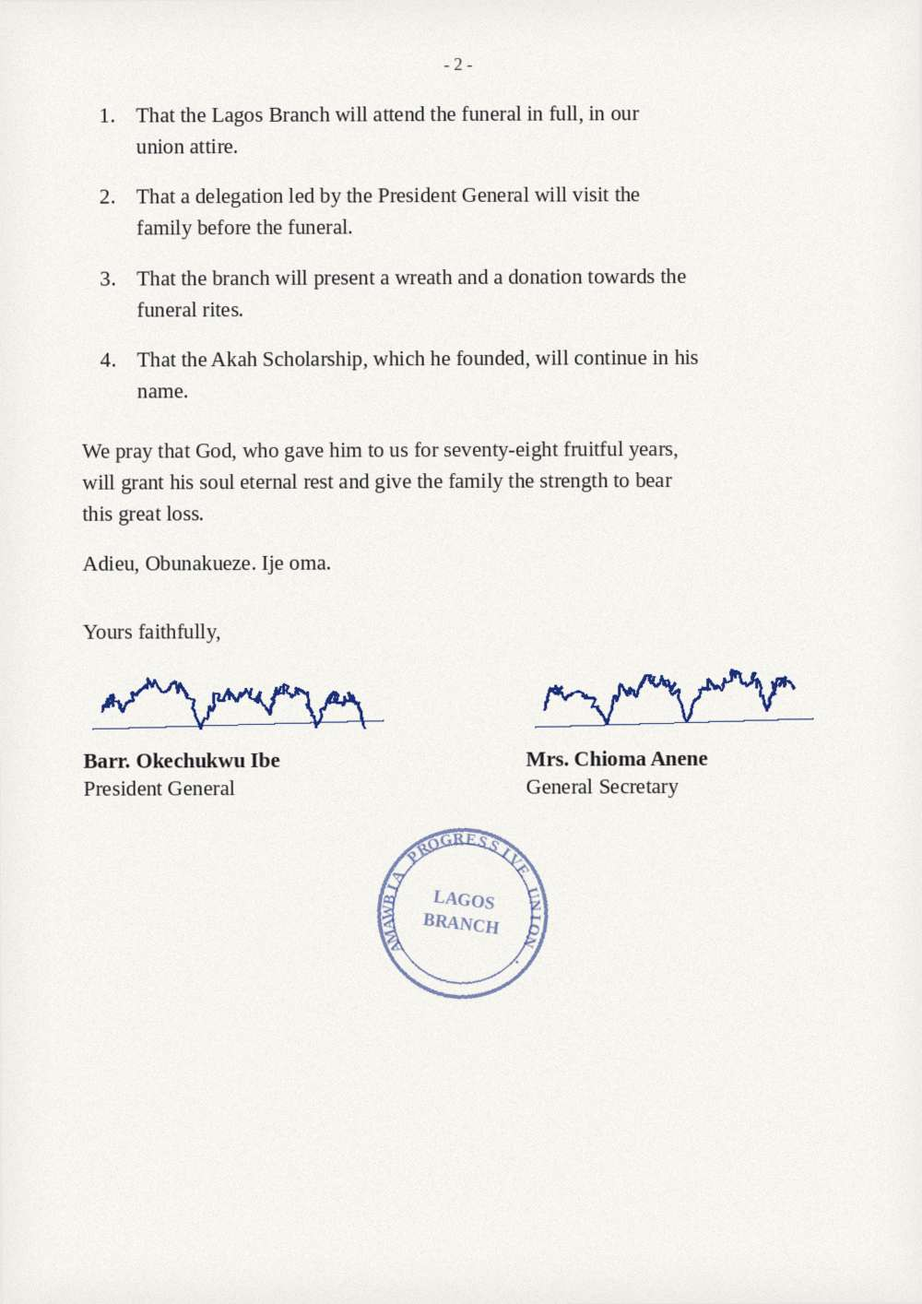
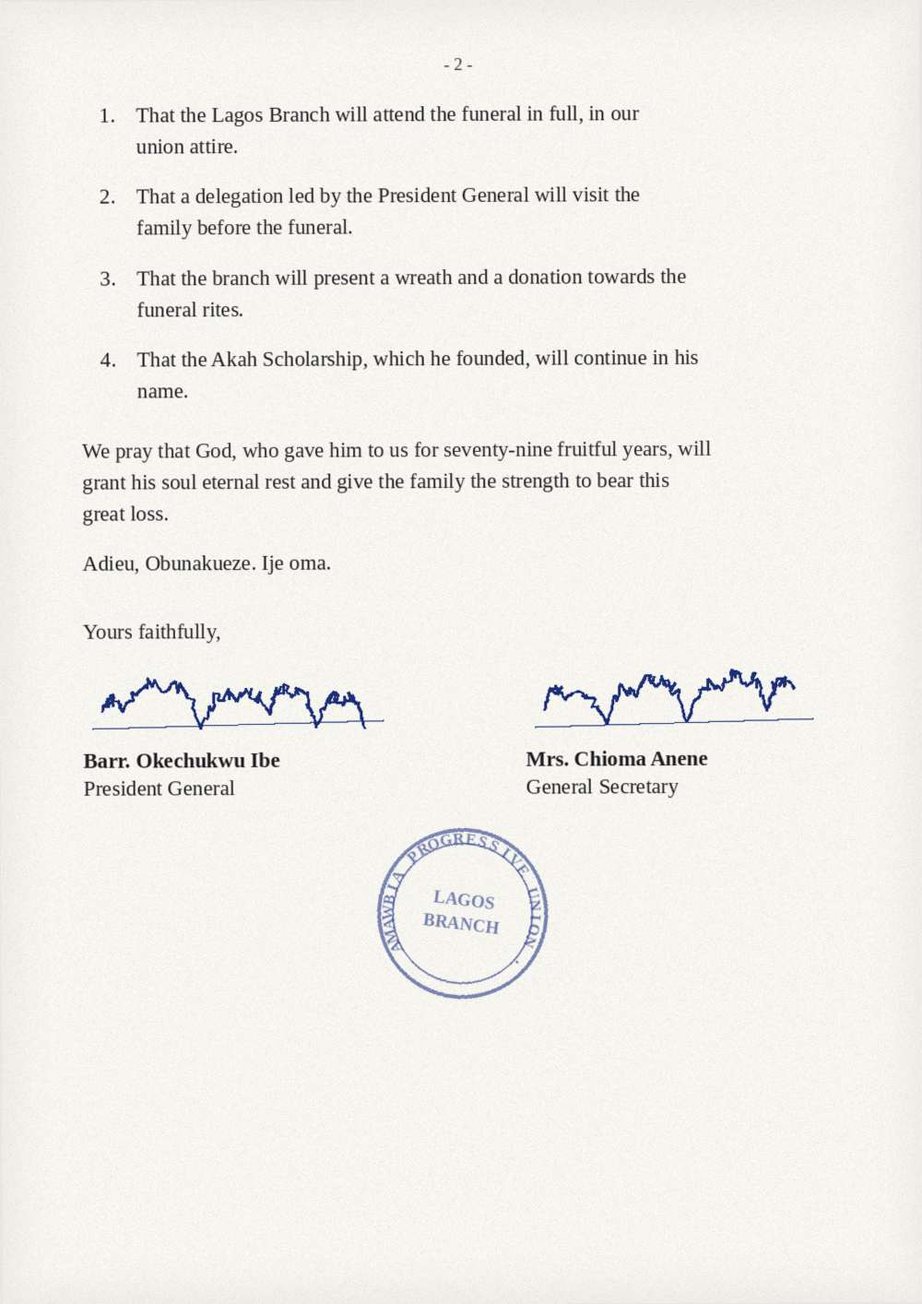
New look: orange covers, green pages, Cormorant and Newsreader type system; age 79
Claude-Session: https://claude.ai/code/session_01LGzrqFLcBAazJXd7zdtGxT

Changed region(s): [[0.093, 0.3423, 0.775, 0.4045]]

diff --git a/public/index.html b/public/index.html
@@ -4,7 +4,7 @@
 <meta charset="utf-8">
 <meta name="viewport" content="width=device-width, initial-scale=1, viewport-fit=cover">
 <meta name="description" content="Celebrating the life of Nze Dr. Louis Chukwukadibia Akah, Obunakueze I of Umueze Village, Amawbia, 1947–2026. Funeral arrangements, his story, tributes and a book of condolence.">
-<meta name="theme-color" content="#9c4317">
+<meta name="theme-color" content="#984a24">
 <meta property="og:type" content="website">
 <meta property="og:title" content="Nze Dr. Louis Chukwukadibia Akah · 1947–2026">
 <meta property="og:description" content="Obunakueze I of Umueze Village, Amawbia. Funeral arrangements, his story, tributes, and a book of condolence. Lay a rose for Dede.">
@@ -16,7 +16,8 @@
 <title>Nze Dr. Louis Chukwukadibia Akah · 1947–2026</title>
 <link rel="preconnect" href="https://fonts.googleapis.com">
 <link rel="preconnect" href="https://fonts.gstatic.com" crossorigin>
-<link rel="stylesheet" href="https://fonts.googleapis.com/css2?family=EB+Garamond:ital,wght@0,400;0,500;1,400;1,500&family=Cedarville+Cursive&family=Instrument+Sans:wght@400;500;600&display=swap">
+<link rel="stylesheet" href="https://fonts.googleapis.com/css2?family=Literata:opsz,wght@7..72,500&text=0123456789%E2%80%93%E2%80%94&display=swap">
+<link rel="stylesheet" href="https://fonts.googleapis.com/css2?family=Cormorant+Garamond:ital,wght@0,400;0,500;0,600;1,400;1,500&family=Newsreader:ital,opsz,wght@0,6..72,400;0,6..72,500;1,6..72,400;1,6..72,500&family=Cedarville+Cursive&family=Instrument+Sans:wght@400;500;600&display=swap">
 <style>
 /* Layout: one family album. Cloth boards front and back; every leaf inside is the same ivory paper with the same anatomy:
    running head, a margin column (photos, notes, captions) and a main column (text), folio at the foot.
@@ -24,9 +25,9 @@
    Scrolling reads a leaf, then peels it from the bottom-right corner. Single deliberate light theme. */
 :root{
   --paper:#f4efe5; --paper-2:#e7e0d2; --ink:#241e1b; --ink-2:#6a5f58; --rule:#d8cebf;
-  --plum:#9c4317; --plum-2:#6a2a0d; --lilac:#f3c9a0; --corner:#2b2429; --pen:#2f3550;
+  --plum:#41604a; --plum-2:#26392c; --lilac:#cfdcc8; --corner:#2b2429; --pen:#2f3550;
   /* shadows: tinted with the primary orange, very soft */
-  --tint:106,42,13;
+  --tint:30,48,36;
   --rose:#dc1e44; --rose-2:#ad1235; --rose-soft:#fde0e4;
   --sh-xs:0 1px 2px rgba(var(--tint),.04), 0 6px 18px -6px rgba(var(--tint),.10);
   --sh-sm:0 1px 2px rgba(var(--tint),.04), 0 14px 36px -12px rgba(var(--tint),.14);
@@ -54,11 +55,11 @@ a:focus-visible,button:focus-visible{outline:2px solid var(--plum); outline-offs
 .brand span{font-family:var(--sans); font-size:12px; letter-spacing:.08em; color:var(--ink-2)}
 .nav{display:flex; gap:2px; margin-left:auto}
 .nav a{font-family:var(--sans); font-size:13.5px; color:var(--ink-2); text-decoration:none; padding:8px 11px; border-radius:999px; white-space:nowrap; transition:background .2s,color .2s}
-.nav a:hover{color:var(--ink); background:#f6e7da}
-.nav a.on{color:var(--plum); background:#f6e7da; font-weight:500}
+.nav a:hover{color:var(--ink); background:#e5ebe0}
+.nav a.on{color:var(--plum); background:#e5ebe0; font-weight:500}
 .tools{display:flex; align-items:center; gap:10px; padding-left:12px; border-left:1px solid var(--rule)}
 .pageno{font-family:var(--sans); font-size:12px; color:var(--ink-2); font-variant-numeric:tabular-nums; white-space:nowrap}
-.chip{font-family:var(--sans); font-size:13px; font-weight:500; color:var(--plum); background:#f6e7da; border:0; border-radius:999px; padding:9px 14px; cursor:pointer; white-space:nowrap}
+.chip{font-family:var(--sans); font-size:13px; font-weight:500; color:var(--plum); background:#e5ebe0; border:0; border-radius:999px; padding:9px 14px; cursor:pointer; white-space:nowrap}
 .menu-btn{display:none}
 .ribbon{position:absolute; left:0; bottom:-1px; height:2px; background:var(--plum); width:0}
 .drawer{position:fixed; z-index:49; top:calc(var(--hdr) + env(safe-area-inset-top,0px)); left:0; right:0; background:#f9f6f0; border-bottom:1px solid var(--rule); box-shadow:0 20px 40px rgba(0,0,0,.2);
@@ -299,12 +300,12 @@ body.on-bleed .rose-chip{background:rgba(255,255,255,.92); color:var(--plum)}
 .btn-ink:disabled,.btn-rose:disabled{opacity:.55; cursor:default}
 .ts:empty{display:none}
 .ts{margin-top:10px}
-.demo-note{font-family:var(--sans); font-size:12.5px; line-height:1.5; color:var(--ink-2); background:rgba(156,67,23,.06); border-left:2px solid var(--lilac); padding:8px 12px; margin:16px 0 0}
+.demo-note{font-family:var(--sans); font-size:12.5px; line-height:1.5; color:var(--ink-2); background:rgba(65,96,74,.06); border-left:2px solid var(--lilac); padding:8px 12px; margin:16px 0 0}
 .book-form{margin-bottom:44px}
 .msgs.live:empty{display:none}
 .msgs.live{margin-bottom:10px}
 .msg.fresh{animation:fresh 1.4s ease}
-@keyframes fresh{from{background:rgba(243,201,160,.35)} to{background:transparent}}
+@keyframes fresh{from{background:rgba(207,220,200,.35)} to{background:transparent}}
 .msg p{white-space:pre-line}
 .more{font-family:var(--sans); font-size:13px; font-weight:500; color:var(--plum); background:none; border:1px solid currentColor; border-radius:999px; padding:9px 16px; cursor:pointer; margin:22px 0 0}
 .sub-head{font-family:var(--sans); font-size:11px; font-weight:600; letter-spacing:.2em; text-transform:uppercase; color:var(--ink-2); margin:52px 0 0; padding-bottom:12px}
@@ -318,7 +319,7 @@ body.on-bleed .rose-chip{background:rgba(255,255,255,.92); color:var(--plum)}
 .garden-top .label{color:var(--ink-2)}
 .garden-top .orn{flex:1; height:12px; color:var(--rule)}
 .garden-top .orn svg{width:100%; height:100%; display:block}
-.close{font-family:var(--sans); font-size:13px; font-weight:500; color:var(--plum); background:#f6e7da; border:0; border-radius:999px; padding:9px 15px; cursor:pointer; white-space:nowrap}
+.close{font-family:var(--sans); font-size:13px; font-weight:500; color:var(--plum); background:#e5ebe0; border:0; border-radius:999px; padding:9px 15px; cursor:pointer; white-space:nowrap}
 .garden-grid{display:grid; grid-template-columns:minmax(0,1.15fr) minmax(0,.85fr); gap:clamp(32px,5vw,80px); align-items:start}
 .wreath-wrap{position:sticky; top:20px}
 .wreath-wrap{position:relative; width:100%; max-width:640px; aspect-ratio:1; justify-self:center}
@@ -388,10 +389,10 @@ body.garden-open{overflow:hidden}
 .rail .lb{font-family:var(--serif); font-size:17.5px; padding-left:6px; opacity:0; transform:translateX(6px); transition:opacity .2s, transform .3s}
 .rail:hover .lb,.rail:focus-within .lb,.rail.open .lb{opacity:1; transform:none; transition-delay:.08s}
 .rail .nav a:hover,.rail-rose:hover,.rail-edit:hover{background:rgba(255,255,255,.45)}
-.rail .nav a.on .no{background:var(--plum); color:#fff; box-shadow:0 2px 6px rgba(156,67,23,.35)}
+.rail .nav a.on .no{background:var(--plum); color:#fff; box-shadow:0 2px 6px rgba(65,96,74,.35)}
 .rail .nav a.on .lb{color:var(--plum)}
 .rail-foot{display:grid; gap:2px; margin-top:8px; padding-top:8px; border-top:1px solid rgba(36,30,27,.12)}
-.rail-rose .rose-ico{width:28px; height:28px; margin-left:6px; padding:6px; border-radius:50%; background:var(--plum); color:#fff; box-shadow:0 2px 8px rgba(156,67,23,.4); box-sizing:border-box}
+.rail-rose .rose-ico{width:28px; height:28px; margin-left:6px; padding:6px; border-radius:50%; background:var(--plum); color:#fff; box-shadow:0 2px 8px rgba(65,96,74,.4); box-sizing:border-box}
 .rail-rose .lb small{font-family:var(--sans); font-size:11px; opacity:.6; margin-left:4px; font-variant-numeric:tabular-nums}
 .rail-edit .no{border:1px dashed currentColor; opacity:.7}
 .rail-write .no{border:1px solid currentColor; opacity:.85}
@@ -457,7 +458,7 @@ body.turning .rail{opacity:.35; transition:opacity .3s}
 .vs-note .hand{font-size:clamp(26px,3vw,44px); color:#625850; line-height:1.25}
 .vs-note .hand + .hand{font-size:clamp(20px,2.2vw,32px)}
 .vs-stamp{position:absolute; right:8%; bottom:10%; font-family:var(--sans); font-size:11px; letter-spacing:.3em; text-transform:uppercase; color:rgba(98,88,82,.45); border:1px solid rgba(98,88,82,.3); padding:8px 12px; rotate:4deg}
-.verso.endpaper{background-color:var(--plum-2); background-image:var(--noise), radial-gradient(circle at 50% 50%, rgba(243,201,160,.14) 1.5px, transparent 2px), radial-gradient(circle at 50% 50%, rgba(243,201,160,.08) 1px, transparent 1.5px); background-size:auto, 34px 34px, 17px 17px}
+.verso.endpaper{background-color:var(--plum-2); background-image:var(--noise), radial-gradient(circle at 50% 50%, rgba(207,220,200,.14) 1.5px, transparent 2px), radial-gradient(circle at 50% 50%, rgba(207,220,200,.08) 1px, transparent 1.5px); background-size:auto, 34px 34px, 17px 17px}
 .vs-end .vs-card{background:#fbf8f2; padding:44px 56px; text-align:center; box-shadow:0 20px 40px -20px rgba(0,0,0,.6); display:grid; gap:8px}
 .vs-end .vs-card b{font-weight:400; font-size:clamp(30px,3.4vw,48px); color:var(--plum)}
 .vs-end .vs-card span{font-style:normal; color:var(--ink-2); font-size:20px}
@@ -518,14 +519,14 @@ body.intro-on .rail{opacity:0; pointer-events:none}
 .endgate .sheet.board .ctas{display:none}
 
 /* ---------- front cover: a photographic jacket ---------- */
-.front-cover{--foil:#f6dcab; background:#9c4317}
+.front-cover{--foil:#f6dcab; background:#984a24}
 .front-cover .inner{position:relative; height:100%; min-height:100%; padding-top:0}
 .fc-photo{position:absolute; inset:0}
 .fc-photo .ph{position:absolute; inset:0}
 .fc-photo::after{content:""; position:absolute; inset:0; z-index:2; pointer-events:none;
-  background:linear-gradient(180deg, rgba(110,42,12,.28) 0%, rgba(156,67,23,0) 24%, rgba(156,67,23,0) 40%, rgba(156,67,23,.72) 60%, rgba(156,67,23,.96) 76%, #93401a 100%),
-             linear-gradient(90deg, rgba(120,48,14,.5) 0%, rgba(156,67,23,0) 45%)}
-.fc-spine{position:absolute; z-index:3; left:0; top:0; bottom:0; width:4.2%; background:linear-gradient(90deg, #5e240a, #7f3311 70%, rgba(255,255,255,.1)); box-shadow:inset -1px 0 0 rgba(255,255,255,.14)}
+  background:linear-gradient(180deg, rgba(94,42,16,.28) 0%, rgba(152,74,36,0) 24%, rgba(152,74,36,0) 40%, rgba(152,74,36,.72) 60%, rgba(152,74,36,.96) 76%, #8d4522 100%),
+             linear-gradient(90deg, rgba(104,46,18,.5) 0%, rgba(152,74,36,0) 45%)}
+.fc-spine{position:absolute; z-index:3; left:0; top:0; bottom:0; width:4.2%; background:linear-gradient(90deg, #55230d, #743417 70%, rgba(255,255,255,.1)); box-shadow:inset -1px 0 0 rgba(255,255,255,.14)}
 .fc-frame{position:absolute; z-index:3; inset:3.2% 3.2% 3.2% 7%; border:1px solid rgba(242,214,162,.55); pointer-events:none}
 .fc-frame::after{content:""; position:absolute; inset:6px; border:1px solid rgba(242,214,162,.22)}
 .fc-type{position:absolute; z-index:4; left:11%; right:12%; bottom:10%; color:#fdf6ee}
@@ -577,7 +578,7 @@ body.intro-on .rail{opacity:0; pointer-events:none}
 .bc-photo .mount{box-shadow:none}
 
 /* ---------- back cover: woven cloth, spine on the right, pages showing on the left ---------- */
-.back-cover{background-color:#963f15;
+.back-cover{background-color:#934823;
   background-image:var(--noise), var(--noise),
     repeating-linear-gradient(0deg, rgba(255,235,210,.07) 0 1px, transparent 1px 3px),
     repeating-linear-gradient(90deg, rgba(40,12,0,.16) 0 1px, transparent 1px 3px),
@@ -585,7 +586,7 @@ body.intro-on .rail{opacity:0; pointer-events:none}
     radial-gradient(ellipse 60% 50% at 30% 25%, rgba(255,210,170,.16), transparent 70%),
     radial-gradient(ellipse 70% 60% at 80% 90%, rgba(40,12,0,.28), transparent 70%);
   box-shadow:inset 0 0 0 1px rgba(255,255,255,.05), inset 0 0 40px rgba(40,12,0,.45)}
-.bc-spine{position:absolute; z-index:2; right:0; top:0; bottom:0; width:4.2%; background:linear-gradient(270deg, #5e240a, #7f3311 70%, rgba(255,255,255,.08)); box-shadow:inset 1px 0 0 rgba(255,255,255,.12)}
+.bc-spine{position:absolute; z-index:2; right:0; top:0; bottom:0; width:4.2%; background:linear-gradient(270deg, #55230d, #743417 70%, rgba(255,255,255,.08)); box-shadow:inset 1px 0 0 rgba(255,255,255,.12)}
 .back-cover .bc-frame{inset:3.2% 7% 3.2% 3.2%}
 .bc-body{position:relative; z-index:3; display:grid; justify-items:center; gap:clamp(18px,3.5vh,34px); padding:0 14% 0 8%; text-align:center}
 .bc-photo .mount{width:min(30vh, 24vw)}
@@ -828,12 +829,12 @@ body.writer-open .rail{visibility:hidden}
 .env-back{position:absolute; inset:0; background:linear-gradient(180deg,#d9b48d,#c99d72); border-radius:4px; box-shadow:0 26px 40px -24px rgba(60,30,10,.55)}
 .env-letter{position:absolute; left:7%; right:7%; bottom:6%; height:88%; background:#fcfaf5; box-shadow:0 1px 2px rgba(0,0,0,.15); padding:9% 9% 0; box-sizing:border-box; z-index:2}
 .env-letter i{display:block; height:2px; background:rgba(36,30,27,.18); margin:0 0 9%; border-radius:2px}
-.env-letter i:nth-child(1){width:46%; background:rgba(156,67,23,.45)}
+.env-letter i:nth-child(1){width:46%; background:rgba(65,96,74,.45)}
 .env-letter i:nth-child(6){width:38%; margin-left:auto}
 .env-front{position:absolute; inset:0; z-index:3; border-radius:0 0 4px 4px; background:linear-gradient(170deg,#ecd1b1,#dfbb93); clip-path:polygon(0 0,50% 58%,100% 0,100% 100%,0 100%); filter:drop-shadow(0 -1px 0 rgba(120,70,30,.15))}
 .env-flap{position:absolute; left:0; right:0; top:0; height:62%; z-index:1; background:linear-gradient(180deg,#e4c39c,#d4aa7c); clip-path:polygon(0 0,100% 0,50% 100%); transform-origin:50% 0; transform:rotateX(180deg); backface-visibility:visible}
 .env-seal{position:absolute; left:50%; top:62%; width:22%; aspect-ratio:1; z-index:5; translate:-50% -50%; border-radius:50%; display:grid; place-items:center; transform:scale(0); opacity:0;
-  background:radial-gradient(circle at 38% 32%, #d0703a, #9c4317 55%, #6a2a0d); box-shadow:0 0 0 3px rgba(156,67,23,.35), 0 4px 8px rgba(60,20,5,.4), inset 0 -3px 5px rgba(0,0,0,.25), inset 0 2px 4px rgba(255,220,180,.35)}
+  background:radial-gradient(circle at 38% 32%, #6d8f74, #41604a 55%, #26392c); box-shadow:0 0 0 3px rgba(65,96,74,.35), 0 4px 8px rgba(15,30,20,.4), inset 0 -3px 5px rgba(0,0,0,.25), inset 0 2px 4px rgba(255,220,180,.35)}
 .env-seal span{font-family:var(--serif); font-style:italic; font-size:clamp(17px,1.9vw,22px); color:#f6dcab; letter-spacing:.04em; text-shadow:0 -1px 0 rgba(0,0,0,.3)}
 .play .env-letter{animation:letterIn 1s .25s cubic-bezier(.45,.05,.3,1) both}
 .play .env-flap{animation:flapShut .6s 1.25s cubic-bezier(.5,0,.3,1) both}
@@ -900,7 +901,7 @@ body.writer-open .rail{visibility:hidden}
 .years-list li{position:relative; background:#fcfaf5; border-radius:14px; padding:18px 14px 16px; box-shadow:var(--sh-sm); display:flex; flex-direction:column; align-items:flex-start; min-width:0;
   transition:transform .35s cubic-bezier(.2,.7,.3,1), box-shadow .35s; cursor:default}
 .years-list li:hover,.years-list li.hot{transform:translateY(-4px); box-shadow:var(--sh-md)}
-.yi{width:40px; height:40px; border-radius:50%; display:grid; place-items:center; color:var(--plum); background:rgba(156,67,23,.08); margin-bottom:14px; transition:background .3s, color .3s}
+.yi{width:40px; height:40px; border-radius:50%; display:grid; place-items:center; color:var(--plum); background:rgba(65,96,74,.08); margin-bottom:14px; transition:background .3s, color .3s}
 .years-list li:hover .yi,.years-list li.hot .yi{background:var(--plum); color:#fff}
 .yi svg{width:22px; height:22px; fill:none; stroke:currentColor; stroke-width:1.4; stroke-linecap:round; stroke-linejoin:round}
 .years-list b{font-weight:400; font-size:clamp(26px,2.3vw,34px); line-height:1; color:var(--plum); font-variant-numeric:lining-nums; letter-spacing:-.01em}
@@ -908,12 +909,12 @@ body.writer-open .rail{visibility:hidden}
 .yt{font-size:16px; line-height:1.35; color:var(--ink); margin-top:8px}
 .years-axis{position:relative; height:86px; margin-top:4px}
 .years-links{position:absolute; left:0; top:0; width:100%; height:52px; overflow:visible}
-.years-links path{fill:none; stroke:rgba(156,67,23,.45); stroke-width:1.2; transition:stroke .3s, stroke-width .3s}
+.years-links path{fill:none; stroke:rgba(65,96,74,.45); stroke-width:1.2; transition:stroke .3s, stroke-width .3s}
 .years-links path.hot{stroke:var(--plum); stroke-width:1.8}
-.axis-line{position:absolute; left:0; right:0; top:52px; height:2px; background:linear-gradient(90deg, rgba(156,67,23,.25), var(--plum) 50%, rgba(156,67,23,.25)); border-radius:2px; transform-origin:0 50%}
+.axis-line{position:absolute; left:0; right:0; top:52px; height:2px; background:linear-gradient(90deg, rgba(65,96,74,.25), var(--plum) 50%, rgba(65,96,74,.25)); border-radius:2px; transform-origin:0 50%}
 .axis-ticks span{position:absolute; top:52px; width:1px; height:8px; background:rgba(36,30,27,.3)}
 .axis-ticks em{position:absolute; top:64px; translate:-50% 0; font-family:var(--sans); font-style:normal; font-size:10.5px; letter-spacing:.1em; color:var(--ink-2)}
-.axis-dots i{position:absolute; top:53px; width:11px; height:11px; margin:-5.5px 0 0 -5.5px; border-radius:50%; background:var(--plum); box-shadow:0 0 0 3px var(--paper), 0 0 0 4px rgba(156,67,23,.3); transition:transform .3s}
+.axis-dots i{position:absolute; top:53px; width:11px; height:11px; margin:-5.5px 0 0 -5.5px; border-radius:50%; background:var(--plum); box-shadow:0 0 0 3px var(--paper), 0 0 0 4px rgba(65,96,74,.3); transition:transform .3s}
 .axis-dots i.hot{transform:scale(1.5)}
 /* reveal */
 .years.pre .years-list li{opacity:0; transform:translateY(18px)}
@@ -929,7 +930,7 @@ body.writer-open .rail{visibility:hidden}
 @media (max-width:880px){
   .years-axis{display:none}
   .years-list{grid-template-columns:1fr; gap:0; position:relative}
-  .years-list::before{content:""; position:absolute; left:19px; top:20px; bottom:20px; width:2px; background:linear-gradient(180deg, rgba(156,67,23,.2), var(--plum) 50%, rgba(156,67,23,.2))}
+  .years-list::before{content:""; position:absolute; left:19px; top:20px; bottom:20px; width:2px; background:linear-gradient(180deg, rgba(65,96,74,.2), var(--plum) 50%, rgba(65,96,74,.2))}
   .years-list li{display:grid; grid-template-columns:40px 1fr; grid-template-areas:"icon year" "icon age" "icon text"; column-gap:18px; background:none; box-shadow:none; padding:0 0 26px; border-radius:0}
   .years-list li:hover,.years-list li.hot{transform:none; box-shadow:none}
   .yi{grid-area:icon; margin:0; background:#fcfaf5; box-shadow:0 0 0 4px var(--paper), var(--sh-xs); position:relative; z-index:1}
@@ -1087,11 +1088,11 @@ body.writer-open .rail{visibility:hidden}
 .letter.multi .letter-open::before{border-color:rgba(var(--tint),.08); box-shadow:var(--sh-xs)}
 .letter-open:hover img,.letter-open:focus-visible img{box-shadow:var(--sh-md)}
 .env-back{box-shadow:0 36px 70px -32px rgba(var(--tint),.42)}
-.btn-ink,.btn-rose{box-shadow:0 10px 24px -10px rgba(156,67,23,.45); transition:box-shadow .25s, transform .25s}
-.btn-ink:not(:disabled):hover,.btn-rose:not(:disabled):hover{box-shadow:0 14px 30px -10px rgba(156,67,23,.5); transform:translateY(-1px)}
+.btn-ink,.btn-rose{box-shadow:0 10px 24px -10px rgba(65,96,74,.45); transition:box-shadow .25s, transform .25s}
+.btn-ink:not(:disabled):hover,.btn-rose:not(:disabled):hover{box-shadow:0 14px 30px -10px rgba(65,96,74,.5); transform:translateY(-1px)}
 .write-cta.sent .wc-btn,.rose-form.laid .btn-rose{box-shadow:none}
-.rail .nav a.on .no{box-shadow:0 6px 16px -4px rgba(156,67,23,.4)}
-.rail-rose .rose-ico{box-shadow:0 6px 16px -4px rgba(156,67,23,.42)}
+.rail .nav a.on .no{box-shadow:0 6px 16px -4px rgba(65,96,74,.4)}
+.rail-rose .rose-ico{box-shadow:0 6px 16px -4px rgba(65,96,74,.42)}
 .rail-panel,.rail-toggle{box-shadow:
     inset 1.5px 1.5px 0 -0.5px rgba(255,255,255,.95),
     inset -1px -1px 0 -0.5px rgba(255,255,255,.5),
@@ -1332,20 +1333,111 @@ p,.tribute p,.msg p,.wc-line,.reg-names.cols b,.reg-foot,.rd-text,#thanks .lede,
   background:radial-gradient(ellipse 80% 70% at 50% 42%, #faf6ee 0%, #f4efe5 55%, #ece5d8 100%); color:#241e1b; transition:opacity .9s ease, visibility 0s .9s}
 .loader.done{opacity:0; visibility:hidden; pointer-events:none}
 .ld-in{max-width:30em; display:flex; flex-direction:column; align-items:center}
-.ld-cross{width:14px; height:20px; color:#9c4317; opacity:.9; margin-bottom:var(--s7,40px)}
+.ld-cross{width:14px; height:20px; color:#41604a; opacity:.9; margin-bottom:var(--s7,40px)}
 .ld-q{margin:0; transition:opacity .7s ease}
 .ld-q.swap{opacity:0}
 .ld-ig{font-family:var(--serif); font-size:clamp(32px,4.6vw,52px); line-height:1.15; font-weight:400; margin:0; color:#241e1b; text-wrap:balance}
 .ld-en{font-family:var(--serif); font-size:clamp(18px,1.7vw,21px); line-height:1.5; margin:var(--s4,16px) 0 0; color:#6a5f58; text-wrap:balance}
-.ld-line{width:72px; height:1px; margin-top:var(--s7,40px); background:rgba(156,67,23,.14); overflow:hidden}
-.ld-line i{display:block; height:100%; width:100%; background:#9c4317; transform-origin:0 50%; transform:scaleX(0); animation:ldfill 9s cubic-bezier(.2,.6,.3,1) forwards}
+.ld-line{width:72px; height:1px; margin-top:var(--s7,40px); background:rgba(65,96,74,.14); overflow:hidden}
+.ld-line i{display:block; height:100%; width:100%; background:#41604a; transform-origin:0 50%; transform:scaleX(0); animation:ldfill 9s cubic-bezier(.2,.6,.3,1) forwards}
 .loader.ready .ld-line i{animation:none; transform:scaleX(1); transition:transform .5s ease}
 .ld-foot{position:absolute; left:0; right:0; bottom:calc(28px + env(safe-area-inset-bottom,0px)); font-family:var(--sans); font-size:11px; font-weight:600; letter-spacing:.24em; text-transform:uppercase; color:#6a5f58}
 @keyframes ldfill{0%{transform:scaleX(0)} 100%{transform:scaleX(.92)}}
 @media (prefers-reduced-motion: reduce){ .ld-line i{animation:none; transform:scaleX(.5)} .loader,.ld-q{transition:none} }
+/* the covers are orange cloth; everything inside is green */
+/* titles carry the cover's orange */
+h2 em,.wr-head h2 em,.wr-thanks h2 em{color:#9c4317}
+.garden .count h2 em,.garden h2 .count em,#gardenTitle em{color:var(--ink)}
+.sheet.board.front-cover{background-color:#984a24}
+.sheet.board.back-cover{background-color:#934823}
+
+/* ---------- type trial: Cormorant Garamond for titles, Newsreader for reading ---------- */
+:root{--serif:'Newsreader','EB Garamond',Georgia,serif; --display:'Cormorant Garamond','EB Garamond',Georgia,serif}
+h1,h2,h3,.ld-ig,.garden .count b,.day .date,.bc-verse,.back-verse,.daalu,.fc-years{font-family:var(--display)}
+h1,h2,.ld-ig,.day .date{font-weight:500}
+h2,.wr-head h2,.wr-thanks h2{font-size:calc(var(--fs-display) * 1.1)}
+.front-cover h1{font-size:clamp(44px,5.9vw,98px)}
+@media (max-width:700px){ .front-cover h1{font-size:clamp(32px,9vw,44px)} }
+.front-cover h1{font-weight:600}
+.fc-years{font-variant-numeric:lining-nums; font-weight:500}
+body{font-optical-sizing:auto; letter-spacing:-.006em}
+h1,h2,h3,.ld-ig,.garden .count b,.day .date{letter-spacing:-.022em}
+
+/* =====================================================================
+   TEXT STYLE SYSTEM  (every piece of text uses exactly one of these)
+   ---------------------------------------------------------------------
+   Role          Font                 Desktop / Phone   Weight  Line   Colour
+   Display       Cormorant Garamond   78 / 48           500     1.1    ink; one italic word in accent orange
+   Cover name    Cormorant Garamond   90 / 44           600     1.1    cream on the cover
+   Title         Cormorant Garamond   32 / 26           500     1.25   ink (the funeral day in green)
+   Year          Literata (numerals)  26 / 22           500     1.25   green when current, quiet grey otherwise
+   Lead          Newsreader           22 / 20           400     1.6    ink-2  (only the sentence under a section title)
+   Body          Newsreader           19 / 17.5         400     1.75   ink    (every paragraph, first one included)
+   Body strong   Newsreader           19 / 17.5         500     1.45   ink    (event names, names in the register)
+   Small         Newsreader           16 / 15           400     1.6    ink for facts, ink-2 for details under a heading
+   Label         Instrument Sans      11, caps, .2em    600     1.5    ink-2; green when it marks an action; rose on roses
+   Meta          Instrument Sans      13, .02em         500     1.6    ink-2; green for links
+   Button        Instrument Sans      15                500     1      set by the button
+   Signature     Cedarville Cursive   22 / 20           400     1.6    pen blue
+   Two one-off sizes, each used in a single place:
+   Saying        Cormorant Garamond   52 / 32           500     1.15   the loader's Igbo line (its meaning underneath is Lead)
+   Count         Cormorant Garamond   130 / 76          400     1      the number of roses on the roses page
+   ---------------------------------------------------------------------
+   Colour rules: ink #241e1b for reading; ink-2 #6a5f58 for secondary text;
+   orange #9c4317 only for the italic word in a title; green #41604a for anything
+   you can press or that marks "now"; rose only for roses; cream and gold only on
+   the covers and on photographs.
+   ===================================================================== */
+:root{--year:'Literata','Newsreader',Georgia,serif}
+
+/* Lead: only the sentence under a section title */
+.intro,.garden-intro,.wr-intro{font-family:var(--serif); font-size:var(--fs-lead) !important; line-height:1.6 !important; font-weight:400}
+
+/* Body: every paragraph, the biography's first one included */
+.lede,#story .lede,#thanks .lede{font-size:var(--fs-body) !important; line-height:1.75 !important}
+
+/* Body strong: event names and the names in the family register */
+.evs b,.reg-names b,.reg-names.cols b{font-family:var(--serif); font-size:var(--fs-body) !important; font-weight:500; line-height:1.45 !important}
+
+/* Small */
+.evs span,.facts dd,.margin figcaption .hand,.yt,.years-list .yt,.reg-names b span,#photos .gallery.bento figcaption .hand{font-size:var(--fs-small) !important; line-height:1.6 !important}
+
+/* Title */
+.day .date,#gardenTitle em{font-family:var(--display); font-size:var(--fs-title); font-weight:500; line-height:1.25}
+
+/* Year: Literata numerals for the timeline */
+.my b,.years-list b,.years-span{font-family:var(--year) !important; font-size:var(--fs-year) !important; font-weight:500; line-height:1.25 !important; letter-spacing:-.01em !important; font-variant-numeric:lining-nums tabular-nums}
+.years-span i{font-family:var(--serif)}
+
+/* Label */
+.label,.rh span,.folio .lbl,.folio .n,.day .label,.facts dt,.my small,.years-list small,.sig small,.letter figcaption .who,.film-len,.folio .turn,.bc-verse cite,.yr,.bleed-fig figcaption .yr,#photos .gallery.bento figcaption .yr,.axis-ticks em{
+  font-family:var(--sans) !important; font-size:var(--fs-label) !important; font-weight:600 !important; line-height:1.5 !important; letter-spacing:.2em !important; text-transform:uppercase; font-style:normal}
+
+/* Meta */
+.evs time,.readmore,.letter figcaption .pg,.film-note,.people,.demo-note,.demo-reset{
+  font-family:var(--sans) !important; font-size:var(--fs-meta) !important; line-height:1.6 !important; letter-spacing:.02em !important}
+.evs time,.readmore,.letter figcaption .pg,.people,.demo-reset{font-weight:500 !important}
+.film-note,.demo-note{font-weight:400 !important}
+
+/* Body has no drop cap: the biography's first letter is the same size as the rest */
+.lede::first-letter,#story .lede::first-letter{float:none !important; font-size:inherit !important; line-height:inherit !important; padding:0 !important; color:inherit !important}
+/* Body: the roses card is a paragraph like any other */
+#messages .roses-card p{font-size:var(--fs-body) !important; line-height:1.75 !important}
+/* Lead: the meaning under the loader's saying, and "roses laid for" beside the count */
+.ld-en{font-size:var(--fs-lead) !important; line-height:1.6 !important}
+.garden .count span,.garden .count .cl{font-family:var(--serif) !important; font-size:var(--fs-lead) !important}
+/* Title: the sign-off under the thank-you note */
+.daalu,.thanks .daalu,#thanks .thanks .daalu,.wr-thanks .daalu{font-family:var(--display) !important; font-size:var(--fs-title) !important; font-weight:500; line-height:1.25 !important}
+/* Small stays regular weight, even inside a bold name */
+.reg-names b span{font-weight:400 !important}
+
+/* Signature */
+.sig .hand{font-size:22px !important; line-height:1.6 !important}
+@media (max-width:880px){ .sig .hand{font-size:20px !important} }
 </style>
 </head>
 <body>
+
 <div class="loader" id="loader" role="status" aria-live="polite" aria-label="Opening the memorial book">
   <div class="ld-in">
     <svg class="ld-cross" viewBox="0 0 14 20" aria-hidden="true"><path d="M7 1v18M2 6.5h10" stroke="currentColor" stroke-width="1.3" stroke-linecap="round" fill="none"/></svg>
@@ -1427,7 +1519,7 @@ p,.tribute p,.msg p,.wc-line,.reg-names.cols b,.reg-foot,.rd-text,#thanks .lede,
 <main class="flow" id="flow">
 
   <!-- 1 · Front cover -->
-  <section class="sheet board front-cover" id="cover" data-back="#6a2a0d">
+  <section class="sheet board front-cover" id="cover" data-back="#26392c">
     <div class="inner">
       <div class="fc-photo"><div class="ph" data-photo="cover.jpg" data-era="colour" data-n="1"></div></div>
       <div class="fc-spine" aria-hidden="true"></div>
@@ -1532,7 +1624,7 @@ p,.tribute p,.msg p,.wc-line,.reg-names.cols b,.reg-foot,.rd-text,#thanks .lede,
                 <div><dt>Schools</dt><dd>Christ the King College, Onitsha · University of Nigeria, Nsukka</dd></div>
                 <div><dt>Vocation</dt><dd>Teacher, then Principal for seventeen years</dd></div>
                 <div><dt>Titles</dt><dd>Obunakueze I of Umueze Village, Amawbia</dd></div>
-                <div><dt>Called home</dt><dd>10 August 2026, aged 78</dd></div>
+                <div><dt>Called home</dt><dd>10 August 2026, aged 79</dd></div>
               </dl>
             </div>
           </aside>
@@ -1549,7 +1641,7 @@ p,.tribute p,.msg p,.wc-line,.reg-names.cols b,.reg-foot,.rd-text,#thanks .lede,
             <p data-my><span class="my" aria-hidden="true"><span><b>1990</b><small>Principal</small></span></span>He taught for over thirty years, and from 1990 to 2007 he was Principal of Community Secondary School, Amawbia. He knew every student by name and stood at the gate each morning in a white shirt. His favourite line is the one every former student still repeats: <em>“Show your working.”</em></p>
             <p data-my><span class="my" aria-hidden="true"><span><b>2003</b><small>Knight</small></span></span>A church warden at St. Joseph's, he was invested a Knight of St. Mulumba in 2003.</p>
             <p data-my><span class="my" aria-hidden="true"><span><b>2008</b><small>Obunakueze I</small></span></span>In 2008 his people conferred on him the title Obunakueze I of Umueze Village, Amawbia.</p>
-            <p data-my><span class="my" aria-hidden="true"><span><b>2026</b><small>Called home</small></span></span>He passed on peacefully at home on 10 August 2026, surrounded by family, aged 78.</p>
+            <p data-my><span class="my" aria-hidden="true"><span><b>2026</b><small>Called home</small></span></span>He passed on peacefully at home on 10 August 2026, surrounded by family, aged 79.</p>
           </div>
         </div>
         <div class="years" id="years">
@@ -1720,7 +1812,7 @@ p,.tribute p,.msg p,.wc-line,.reg-names.cols b,.reg-foot,.rd-text,#thanks .lede,
               <figure class="letter multi" data-pages="letters/union-2026-1.jpg|letters/union-2026-2.jpg">
                 <button class="letter-open" type="button" aria-label="Read the letter from Amawbia Progressive Union"><img src="letters/union-2026-1.jpg" alt="" loading="lazy"></button>
                 <figcaption><span class="who">Amawbia Progressive Union</span><span class="where">Lagos Branch · 18 September 2026</span><span class="pg">2 pages</span></figcaption>
-                <div class="transcript" hidden><p>Dear Madam,</p><p>LETTER OF CONDOLENCE</p><p>The President General, executive and entire membership of the Amawbia Progressive Union, Lagos Branch, received with deep sorrow the news of the death of our illustrious son, Nze Dr. Louis Chukwukadibia Akah, Obunakueze I of Umueze Village, Amawbia.</p><p>Dr. Akah was a founding patron of this branch. When the union was only a handful of young men meeting in a rented classroom in Yaba, he travelled from home to encourage us, and he never once returned to Amawbia without asking after every member by name. His counsel steadied the union through many difficult seasons, and his patience settled more disputes than any constitution could.</p><p>At our emergency meeting of Sunday, 14th September 2026, members observed a minute&#x27;s silence in his honour and resolved as follows:</p><p>1. That the Lagos Branch will attend the funeral in full, in our union attire.</p><p>2. That a delegation led by the President General will visit the family before the funeral.</p><p>3. That the branch will present a wreath and a donation towards the funeral rites.</p><p>4. That the Akah Scholarship, which he founded, will continue in his name.</p><p>We pray that God, who gave him to us for seventy-eight fruitful years, will grant his soul eternal rest and give the family the strength to bear this great loss.</p><p>Adieu, Obunakueze. Ije oma.</p><p>Yours faithfully,</p><p>Barr. Okechukwu Ibe, President General · Mrs. Chioma Anene, General Secretary</p></div>
+                <div class="transcript" hidden><p>Dear Madam,</p><p>LETTER OF CONDOLENCE</p><p>The President General, executive and entire membership of the Amawbia Progressive Union, Lagos Branch, received with deep sorrow the news of the death of our illustrious son, Nze Dr. Louis Chukwukadibia Akah, Obunakueze I of Umueze Village, Amawbia.</p><p>Dr. Akah was a founding patron of this branch. When the union was only a handful of young men meeting in a rented classroom in Yaba, he travelled from home to encourage us, and he never once returned to Amawbia without asking after every member by name. His counsel steadied the union through many difficult seasons, and his patience settled more disputes than any constitution could.</p><p>At our emergency meeting of Sunday, 14th September 2026, members observed a minute&#x27;s silence in his honour and resolved as follows:</p><p>1. That the Lagos Branch will attend the funeral in full, in our union attire.</p><p>2. That a delegation led by the President General will visit the family before the funeral.</p><p>3. That the branch will present a wreath and a donation towards the funeral rites.</p><p>4. That the Akah Scholarship, which he founded, will continue in his name.</p><p>We pray that God, who gave him to us for seventy-nine fruitful years, will grant his soul eternal rest and give the family the strength to bear this great loss.</p><p>Adieu, Obunakueze. Ije oma.</p><p>Yours faithfully,</p><p>Barr. Okechukwu Ibe, President General · Mrs. Chioma Anene, General Secretary</p></div>
               </figure>
               <figure class="letter" data-pages="letters/school-2026.jpg">
                 <button class="letter-open" type="button" aria-label="Read the letter from Community Secondary School"><img src="letters/school-2026.jpg" alt="" loading="lazy"></button>
@@ -1766,12 +1858,12 @@ p,.tribute p,.msg p,.wc-line,.reg-names.cols b,.reg-foot,.rd-text,#thanks .lede,
         <div class="rh"><span>His life in photos</span><span class="orn"><svg><use href="#uli"/></svg></span><span>1964 – 2024</span></div>
         <div class="layout">
           <aside class="margin">
-            <div class="mnote"><span class="label">The album</span><p>Seventy-eight years, gathered from the family's albums and phones.</p></div>
+            <div class="mnote"><span class="label">The album</span><p>Seventy-nine years, gathered from the family's albums and phones.</p></div>
           </aside>
           <div class="main">
             <div class="head">
               <span class="label">His life in photos</span>
-              <h2>Seventy-eight <em>years</em></h2>
+              <h2>Seventy-nine <em>years</em></h2>
             </div>
             <div class="gallery bento">
               <figure><div class="mount"><div class="ph" data-photo="album-1964-choir.jpg" data-era="bw" data-n="3"></div></div><figcaption><span class="hand">The CKC school choir</span><span class="yr">1964</span></figcaption></figure>
